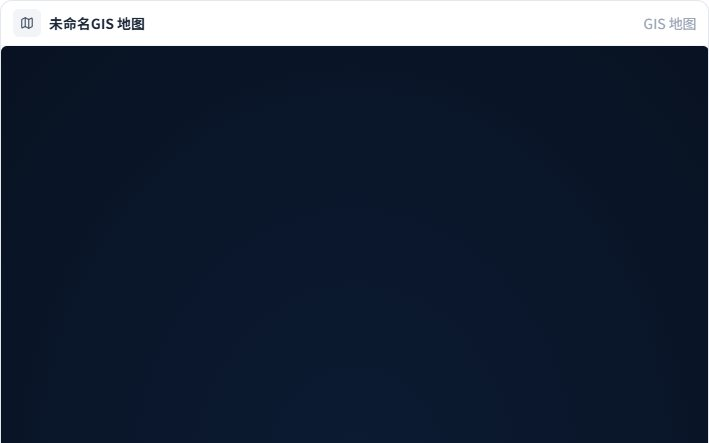
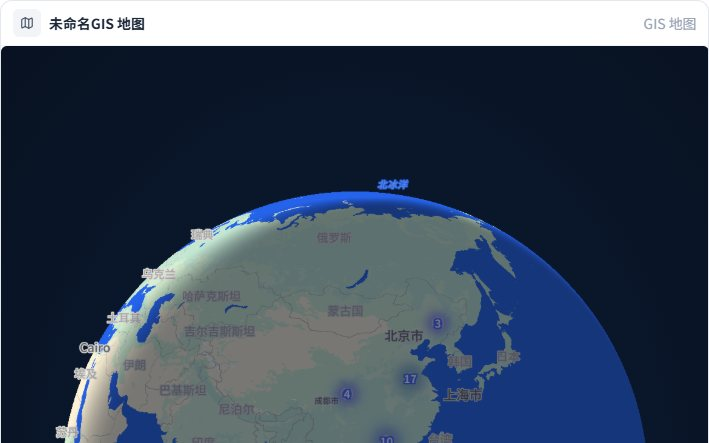
wip: [fe,.cursor,data] 7f (+43/-7) @ 2026-09-02 16:54 +0800
Areas:
  fe/          4 files (+31/-6)
  .cursor/     2 files (+12/-1)
  data/        1 files

Changed (up to 25):
A  .cursor/logs/scheduled-auto-commit/runs/2026-09-02T162444.json
M  .cursor/logs/scheduled-auto-commit/state.json
M  data/viz-component-thumbnails/4f345f82-51c6-4a73-97c3-44a9dc2e4046.jpg
M  fe/src/components/charts/engine/maplibre/GisMapView.tsx
M  fe/src/components/charts/engine/maplibre/gisGeolibreEffects.test.ts
M  fe/src/components/charts/engine/maplibre/gisGeolibreEffectsEngine.ts
M  fe/src/components/charts/engine/maplibre/gisGlobeLayout.ts

stat: 7 files changed, 43 insertions(+), 7 deletions(-)
branch: dev | scheduled-auto-commit

diff --git a/fe/src/components/charts/engine/maplibre/gisGeolibreEffectsEngine.ts b/fe/src/components/charts/engine/maplibre/gisGeolibreEffectsEngine.ts
@@ -16,6 +16,7 @@ import {
   drawGeolibreStarfieldParallax,
 } from "@/components/charts/engine/maplibre/gisGeolibreEffectsStarfield";
 import {
+  resolveGlobeLimbBoundsFromMap,
   resolveGlobeLimbBoundsFromProject,
   resolveGlobeScreenBounds,
   shouldRenderGisGlobeFarEffects,
@@ -287,8 +288,12 @@ export class GisGeolibreEffectsEngine {
   }
 
   private drawHaloLayer(): void {
-    if (this.width <= 0 || this.height <= 0) return;
-    const limb = resolveGlobeLimbBoundsFromProject(this.map);
+    if (this.width <= 0 || this.height <= 0 || !this.settings.enabled) return;
+    const screen = resolveGlobeScreenBounds(this.map);
+    const limb =
+      resolveGlobeLimbBoundsFromMap(this.map) ??
+      resolveGlobeLimbBoundsFromProject(this.map) ??
+      (screen ? { x: screen.x, y: screen.y, radius: screen.radius } : null);
     if (!limb) {
       this.haloCtx.clearRect(0, 0, this.width, this.height);
       return;
@@ -320,6 +325,9 @@ export class GisGeolibreEffectsEngine {
     }
 
     this.drawSpaceBackground();
+    // 光晕跟球缘走，任意 zoom 都应绘制；星场/流星才在远视图隐藏。
+    this.drawHaloLayer();
+
     if (!this.isFarGlobeView()) {
       this.starsCtx.clearRect(0, 0, this.width, this.height);
       this.comets = [];
@@ -337,7 +345,6 @@ export class GisGeolibreEffectsEngine {
       this.comets,
       elapsed / (1000 / 60),
     );
-    this.drawHaloLayer();
     this.start();
   }
 }

diff --git a/fe/src/components/charts/engine/maplibre/gisGeolibreEffects.test.ts b/fe/src/components/charts/engine/maplibre/gisGeolibreEffects.test.ts
@@ -1,3 +1,5 @@
+import { readFileSync } from "node:fs";
+import { resolve } from "node:path";
 import { describe, expect, it } from "vitest";
 import { drawGeolibreComets } from "@/components/charts/engine/maplibre/gisGeolibreEffectsComets";
 import { resolveGeolibreStarfieldParallaxOffset } from "@/components/charts/engine/maplibre/gisGeolibreEffectsStarfield";
@@ -32,5 +34,20 @@ describe("gisGeolibreEffects", () => {
     ];
     const survivors = drawGeolibreComets(null as unknown as CanvasRenderingContext2D, 200, 200, seed, 2);
     expect(survivors).toHaveLength(0);
+  });
+
+  it("draws atmosphere halo outside far-view gate", () => {
+    const source = readFileSync(
+      resolve(process.cwd(), "src/components/charts/engine/maplibre/gisGeolibreEffectsEngine.ts"),
+      "utf8",
+    );
+    const tickBody = source.slice(source.indexOf("private tick("));
+    expect(tickBody).toContain("this.drawHaloLayer()");
+    expect(tickBody.indexOf("this.drawHaloLayer()")).toBeLessThan(
+      tickBody.indexOf("if (!this.isFarGlobeView())"),
+    );
+    expect(tickBody).not.toMatch(
+      /if \(!this\.isFarGlobeView\(\)\)[\s\S]*this\.drawHaloLayer\(\)/,
+    );
   });
 });

diff --git a/fe/src/components/charts/engine/maplibre/GisMapView.tsx b/fe/src/components/charts/engine/maplibre/GisMapView.tsx
@@ -865,6 +865,7 @@ function GisMapViewInner(props: ChartEngineViewProps) {
           effectsEngineRef.current,
           resolveGisEffectsSettings(projectRef.current),
         );
+        ensureGisEffectsEngine(map);
         applyGlobeAtmosphere(
           map,
           {
@@ -915,7 +916,7 @@ function GisMapViewInner(props: ChartEngineViewProps) {
       },
       getSunSettings: () => sunEngineRef.current?.getSettings() ?? null,
     });
-  }, [applyOverlayPatch, ensureSunEngine, instanceKey, remountMapControls, syncLayersRuntime]);
+  }, [applyOverlayPatch, ensureGisEffectsEngine, ensureSunEngine, instanceKey, remountMapControls, syncLayersRuntime]);
 
   const statusHint = pmtilesErrorHint ?? mapErrorHint;
   const dataHint = useMemo(

diff --git a/fe/src/components/charts/engine/maplibre/gisGlobeLayout.ts b/fe/src/components/charts/engine/maplibre/gisGlobeLayout.ts
@@ -83,10 +83,10 @@ export function isInsideGlobeDisc(
   return dx * dx + dy * dy < r * r;
 }
 
-/** zoom 超过此值视为区域视图，隐藏星场/光晕/流星（避免球缘伪影）。 */
+/** zoom 超过此值视为区域视图，隐藏星场/流星（光晕仍跟随球缘绘制）。 */
 export const GIS_GLOBE_FAR_EFFECTS_MAX_ZOOM = 4.5;
 
-/** 全球远视图才显示星场/光晕/流星；区域放大后隐藏，避免球缘 overlay 伪影。 */
+/** 全球远视图才显示星场/流星；区域放大后隐藏，避免球缘 overlay 伪影。光晕不在此门控内。 */
 export function shouldRenderGisGlobeFarEffects(
   map: MapLibreMap | null,
   globe: GlobeScreenBounds | null,
